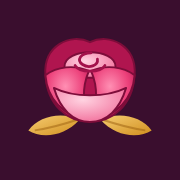
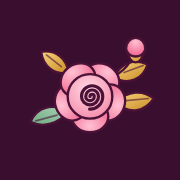
Fix: use vibrant color in the UI

Changed region(s): [[0.1667, 0.1944, 0.8611, 0.7778]]

diff --git a/src/components/Logo.tsx b/src/components/Logo.tsx
@@ -1,77 +1,142 @@
 import { useId } from "react";
 
+// Outer petal positions [x, y, rotation] around the rose head at (32, 31). The art spans y 3.5–48,
+// so the viewBox is shifted up to centre it.
+const PETALS: [number, number, number][] = [
+  [37.6, 23.3, 36],
+  [41, 33.9, 108],
+  [32, 40.5, 180],
+  [23, 33.9, 252],
+  [26.4, 23.3, 324],
+];
+
 /** The Bobo Blooms rose mark. src/app/icon.png and apple-icon.png are renders of this SVG. */
 export function LogoMark({ className = "h-11 w-11" }: { className?: string }) {
   const id = useId().replace(/:/g, "");
   const petal = `${id}-petal`;
   const heart = `${id}-heart`;
-  const leaf = `${id}-leaf`;
+  const gold = `${id}-gold`;
+  const sage = `${id}-sage`;
 
   return (
-    <svg viewBox="0 0 64 64" aria-hidden="true" className={className}>
+    <svg viewBox="0 -4 64 64" aria-hidden="true" className={className}>
       <defs>
-        <radialGradient id={petal} cx="0.45" cy="0.35" r="0.75">
-          <stop offset="0" stopColor="#ff8fb3" />
-          <stop offset="0.55" stopColor="#ec407a" />
-          <stop offset="1" stopColor="#b0154f" />
+        <radialGradient id={petal} cx="0.5" cy="0.2" r="0.9">
+          <stop offset="0" stopColor="#ffc2d4" />
+          <stop offset="0.6" stopColor="#f47a9e" />
+          <stop offset="1" stopColor="#e0527e" />
         </radialGradient>
-        <radialGradient id={heart} cx="0.4" cy="0.35" r="0.8">
-          <stop offset="0" stopColor="#ffd3e1" />
-          <stop offset="1" stopColor="#f06292" />
+        <radialGradient id={heart} cx="0.45" cy="0.35" r="0.7">
+          <stop offset="0" stopColor="#ffd9e4" />
+          <stop offset="1" stopColor="#f58aa9" />
         </radialGradient>
-        <linearGradient id={leaf} x1="0" y1="0" x2="1" y2="1">
-          <stop offset="0" stopColor="#f6cd72" />
-          <stop offset="1" stopColor="#d18f1f" />
+        <linearGradient id={gold} x1="0" y1="0" x2="1" y2="1">
+          <stop offset="0" stopColor="#f8d47e" />
+          <stop offset="1" stopColor="#c98a24" />
+        </linearGradient>
+        <linearGradient id={sage} x1="1" y1="0" x2="0" y2="1">
+          <stop offset="0" stopColor="#a9d4b5" />
+          <stop offset="1" stopColor="#6fa883" />
         </linearGradient>
       </defs>
 
-      {/* leaves */}
-      <path d="M27 46C20 54 9 55 3 51c5-7 16-9 24-5z" fill={`url(#${leaf})`} />
-      <path d="M37 46c7 8 18 9 24 5-5-7-16-9-24-5z" fill={`url(#${leaf})`} />
-      <path d="M6 51c7-1 14-3 20-5M58 51c-7-1-14-3-20-5" stroke="#9a5d0e" strokeWidth="0.9" fill="none" opacity="0.5" />
+      <g stroke="#4a1236" strokeWidth="1.1" strokeLinejoin="round">
+        {/* leaves: gold top-left and right, sage bottom-left */}
+        <path d="M22 20C15 21 10 17 9 10c7-1 12 3 13 10z" fill={`url(#${gold})`} />
+        <path d="M44 34c6-6 13-6 18-2-4 6-11 8-18 2z" fill={`url(#${gold})`} />
+        <path d="M43 22c4-7 10-9 16-6-2 7-9 10-16 6z" fill={`url(#${gold})`} />
+        <path d="M22 38c-5 6-12 8-18 5 3-7 10-9 18-5z" fill={`url(#${sage})`} />
 
-      <g stroke="#7d0d3a" strokeWidth="0.9" strokeLinejoin="round">
-        {/* back petals */}
-        <path d="M11 25C10 11 23 5 32 9.5 41 5 54 11 53 25c-1 14-10 22-21 22S12 39 11 25z" fill="#b0154f" />
         {/* bud */}
-        <path d="M20 21c0-9 24-9 24 0 0 7-24 7-24 0z" fill={`url(#${heart})`} />
-        {/* side petals wrapping the bud */}
-        <path d="M11 25c1 12 9 19 21 22-3.5-7-4-16-.5-24-7-3-15-2-20.5 2z" fill={`url(#${petal})`} />
-        <path d="M53 25c-1 12-9 19-21 22 3.5-7 4-16 .5-24 7-3 15-2 20.5 2z" fill={`url(#${petal})`} />
-        {/* front petal */}
-        <path d="M15 31c3 10 9 16 17 16s14-6 17-16c-5 2.5-11 3.5-17 3.5S20 33.5 15 31z" fill={`url(#${heart})`} />
+        <path d="M51 14.5c-2 3-4 5-7 6.5" fill="none" />
+        <path d="M49 8.5c0-3 2-5 4.5-5S58 5.5 58 8.5c0 2.5-2 4.5-4.5 4.5S49 11 49 8.5z" fill={`url(#${petal})`} />
+        <path d="M49.5 10c1.5 3 6.5 3 8 0-1 3.5-2.5 5-4 5s-3-1.5-4-5z" fill={`url(#${gold})`} />
+
+        {/* outer petals */}
+        {PETALS.map(([x, y, r]) => (
+          <ellipse
+            key={r}
+            cx={x}
+            cy={y}
+            rx="8.6"
+            ry="7.4"
+            transform={`rotate(${r} ${x} ${y})`}
+            fill={`url(#${petal})`}
+          />
+        ))}
+
+        {/* head */}
+        <circle cx="32" cy="31" r="10.5" fill={`url(#${heart})`} />
       </g>
-      {/* bud swirl */}
+      {/* leaf veins */}
       <path
-        d="M32.5 14.5c-5 0-7 3.5-4 5.5 3 2 7.5.5 7-2.5M25 20.5c2 3.5 12 3.5 14 0"
+        d="M18.5 17 11.5 11.5M49 33l10.5-1M48 19.8 57 16.5M16.5 39.8l-10 2.7"
+        stroke="#4a1236"
+        strokeWidth="0.8"
+        strokeLinecap="round"
+        opacity="0.6"
+      />
+      {/* spiral */}
+      <path
+        d="M32 31a1 1 0 0 1 2 0 2 2 0 0 1-4 0 3 3 0 0 1 6 0 4 4 0 0 1-8 0 5 5 0 0 1 10 0 6 6 0 0 1-6.2 6"
         fill="none"
-        stroke="#a3124b"
-        strokeWidth="1.3"
+        stroke="#4a1236"
+        strokeWidth="1.5"
         strokeLinecap="round"
       />
     </svg>
   );
 }
 
-export default function Logo({ tone = "light" }: { tone?: "light" | "dark" }) {
+function Flourish({ flip = false }: { flip?: boolean }) {
+  return (
+    <svg viewBox="0 0 40 8" aria-hidden="true" className={`h-2 w-10 text-gold ${flip ? "-scale-x-100" : ""}`}>
+      <path d="M0 4h28" stroke="currentColor" strokeWidth="1" />
+      <circle cx="32" cy="4" r="1.6" fill="currentColor" />
+      <circle cx="37.5" cy="4" r="1" fill="currentColor" />
+    </svg>
+  );
+}
+
+export default function Logo({
+  tone = "light",
+  stacked = false,
+}: {
+  tone?: "light" | "dark";
+  stacked?: boolean;
+}) {
+  const gold = tone === "light" ? "from-gold-light to-gold" : "from-gold to-[#a8701a]";
+  const accent = tone === "light" ? "text-blush" : "text-rose";
+
+  if (stacked) {
+    return (
+      <span className="inline-flex flex-col items-center leading-none">
+        <LogoMark className="h-24 w-24 drop-shadow" />
+        <span
+          className={`mt-1 bg-linear-to-b bg-clip-text font-serif text-6xl leading-[0.85] font-bold tracking-[0.06em] text-transparent ${gold}`}
+        >
+          BOBO
+        </span>
+        <span className={`mt-2 flex items-center gap-2 text-sm font-bold tracking-[0.45em] ${accent}`}>
+          <Flourish flip />
+          <span className="-mr-[0.45em]">BLOOMS</span>
+          <Flourish />
+        </span>
+        <span className="mt-2.5 text-[10px] tracking-[0.3em] text-cream/60">PREMIER FLOWER BUSINESS</span>
+      </span>
+    );
+  }
+
   return (
     <span className="flex items-center gap-2.5">
-      <LogoMark className="h-12 w-12 shrink-0 drop-shadow-sm" />
-      <span className="flex flex-col leading-none">
+      <LogoMark className="-my-1 h-14 w-14 shrink-0 drop-shadow-sm" />
+      <span className="flex flex-col items-center leading-none">
         <span
-          className={`font-serif text-[1.65rem] font-semibold tracking-wide ${
-            tone === "light" ? "text-cream" : "text-ink"
-          }`}
+          className={`bg-linear-to-b bg-clip-text font-serif text-[1.9rem] leading-[0.85] font-bold tracking-[0.06em] text-transparent ${gold}`}
         >
-          Bobo <span className="text-gold-light italic">Blooms</span>
+          BOBO
         </span>
-        <span
-          className={`mt-1 text-[9px] font-bold tracking-[0.32em] uppercase ${
-            tone === "light" ? "text-blush" : "text-rose"
-          }`}
-        >
-          Flowers &amp; Decor
-        </span>
+        <span className={`mt-1 text-[10px] font-bold tracking-[0.42em] ${accent}`}>BLOOMS</span>
       </span>
     </span>
   );

diff --git a/src/components/MashujaaPopup.tsx b/src/components/MashujaaPopup.tsx
@@ -1,0 +1,135 @@
+"use client";
+
+import Image from "next/image";
+import { useEffect, useState } from "react";
+import { CloseIcon } from "./Icons";
+import { LogoMark } from "./Logo";
+import WhatsAppIcon from "./WhatsAppIcon";
+import { whatsappLink } from "@/lib/site";
+
+// Mashujaa Day (Heroes' Day). The poster shows only on this date, Nairobi time.
+const SHOW_ON = "2026-10-20";
+const SEEN_KEY = `mashujaa-${SHOW_ON}-seen`;
+
+function todayInNairobi() {
+  // en-CA formats as YYYY-MM-DD
+  return new Intl.DateTimeFormat("en-CA", { timeZone: "Africa/Nairobi" }).format(new Date());
+}
+
+function FlagStripe() {
+  return (
+    <div aria-hidden="true">
+      <div className="h-3 bg-black" />
+      <div className="h-1 bg-white" />
+      <div className="h-3 bg-[#bb0000]" />
+      <div className="h-1 bg-white" />
+      <div className="h-3 bg-[#006600]" />
+    </div>
+  );
+}
+
+export default function MashujaaPopup() {
+  const [open, setOpen] = useState(false);
+
+  useEffect(() => {
+    if (todayInNairobi() !== SHOW_ON) return;
+    try {
+      if (sessionStorage.getItem(SEEN_KEY)) return;
+    } catch {}
+    const t = setTimeout(() => setOpen(true), 800);
+    return () => clearTimeout(t);
+  }, []);
+
+  useEffect(() => {
+    if (!open) return;
+    const onKey = (e: KeyboardEvent) => e.key === "Escape" && close();
+    document.addEventListener("keydown", onKey);
+    document.body.style.overflow = "hidden";
+    return () => {
+      document.removeEventListener("keydown", onKey);
+      document.body.style.overflow = "";
+    };
+  }, [open]);
+
+  function close() {
+    setOpen(false);
+    try {
+      sessionStorage.setItem(SEEN_KEY, "1");
+    } catch {}
+  }
+
+  if (!open) return null;
+
+  return (
+    <div
+      className="fixed inset-0 z-[60] flex animate-[fade-in_0.3s_ease-out] items-center justify-center bg-ink/75 p-4 backdrop-blur-sm"
+      onClick={close}
+    >
+      <div
+        role="dialog"
+        aria-modal="true"
+        aria-labelledby="mashujaa-title"
+        className="relative w-full max-w-md animate-[rise_0.5s_ease-out] overflow-hidden rounded-3xl bg-cream text-center shadow-2xl shadow-black/40"
+        onClick={(e) => e.stopPropagation()}
+      >
+        <button
+          type="button"
+          onClick={close}
+          aria-label="Close"
+          className="absolute top-14 right-3 z-10 rounded-full bg-black/40 p-1.5 text-white transition-colors hover:bg-black/60"
+        >
+          <CloseIcon className="h-5 w-5" />
+        </button>
+
+        <FlagStripe />
+
+        <div className="relative isolate h-44 overflow-hidden sm:h-52">
+          <Image
+            src="/images/hero.jpg"
+            alt=""
+            fill
+            sizes="448px"
+            className="-z-10 object-cover"
+          />
+          <div className="absolute inset-0 -z-10 bg-gradient-to-b from-ink/30 via-ink/40 to-cream" />
+          <div className="flex h-full flex-col items-center justify-end pb-2">
+            <span className="flex h-20 w-20 items-center justify-center rounded-full bg-cream shadow-lg ring-4 ring-[#bb0000]/80">
+              <LogoMark className="h-14 w-14" />
+            </span>
+          </div>
+        </div>
+
+        <div className="px-6 pt-3 pb-7 sm:px-8">
+          <p className="text-xs font-bold tracking-[0.3em] text-[#006600] uppercase">20 October 2026</p>
+          <h2 id="mashujaa-title" className="mt-2 font-serif text-4xl leading-tight font-semibold whitespace-nowrap text-ink sm:text-[2.75rem]">
+            Happy <span className="text-[#bb0000] italic">Mashujaa</span> Day
+          </h2>
+          <p className="mx-auto mt-3 max-w-sm text-sm leading-relaxed text-ink-soft">
+            Today we honour the heroes who shaped Kenya, past and present. Celebrate the heroes in your own life with
+            fresh flowers from Bobo Blooms.
+          </p>
+
+          <a
+            href={whatsappLink("Hello Bobo Blooms 👋\nHappy Mashujaa Day! I'd like to send flowers to a hero in my life.")}
+            target="_blank"
+            rel="noopener noreferrer"
+            onClick={close}
+            className="mt-6 inline-flex items-center gap-2 rounded-full bg-whatsapp px-7 py-3.5 font-bold text-white shadow-lg shadow-whatsapp/30 transition-opacity hover:opacity-90"
+          >
+            <WhatsAppIcon />
+            Send flowers to a hero
+          </a>
+          <button
+            type="button"
+            onClick={close}
+            className="mt-3 block w-full text-sm text-ink-soft underline-offset-4 hover:underline"
+          >
+            Continue to website
+          </button>
+        </div>
+
+        <FlagStripe />
+      </div>
+    </div>
+  );
+}

diff --git a/src/components/Footer.tsx b/src/components/Footer.tsx
@@ -9,9 +9,10 @@ export default function Footer() {
     <footer className="border-t-4 border-rose bg-ink text-cream/80">
       <div className="mx-auto grid max-w-6xl gap-10 px-4 py-14 sm:px-6 md:grid-cols-3">
         <div>
-          <Logo />
-          <p className="mt-4 text-xs tracking-[0.25em] text-blush/70 uppercase">{site.tagline}</p>
-          <p className="mt-4 max-w-xs text-sm leading-relaxed">
+          <Link href="/" aria-label="Bobo Blooms home">
+            <Logo stacked />
+          </Link>
+          <p className="mt-6 max-w-xs text-sm leading-relaxed">
             Fresh flowers and floral decor for weddings, celebrations and remembrance.
           </p>
         </div>

diff --git a/src/app/layout.tsx b/src/app/layout.tsx
@@ -3,6 +3,7 @@ import { Cormorant_Garamond, Lato } from "next/font/google";
 import Header from "@/components/Header";
 import Footer from "@/components/Footer";
 import FloatingWhatsApp from "@/components/FloatingWhatsApp";
+import MashujaaPopup from "@/components/MashujaaPopup";
 import { site } from "@/lib/site";
 import "./globals.css";
 
@@ -44,6 +45,7 @@ export default function RootLayout({
         <main>{children}</main>
         <Footer />
         <FloatingWhatsApp />
+        <MashujaaPopup />
       </body>
     </html>
   );
